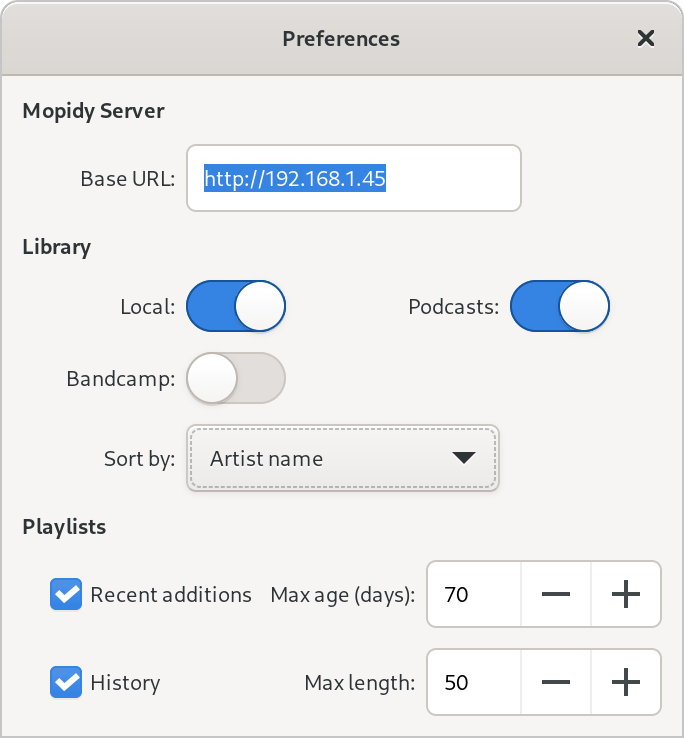
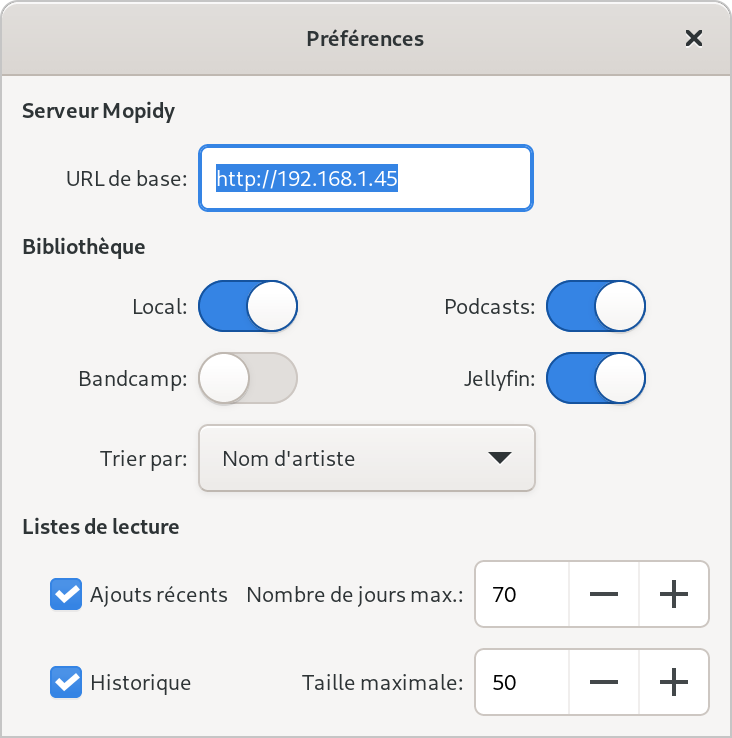
Support for Mopidy-Jellyfin
- Implement new MopidyJellyfinBackend
- Limit size of request to fetch album images URIs
- Support download of images with http URI scheme

Refs: #48

diff --git a/argos/widgets/preferences.py b/argos/widgets/preferences.py
@@ -29,6 +29,8 @@ class PreferencesWindow(Gtk.Window):
     mopidy_local_label: Gtk.Label = Gtk.Template.Child()
     mopidy_bandcamp_switch: Gtk.Switch = Gtk.Template.Child()
     mopidy_bandcamp_label: Gtk.Label = Gtk.Template.Child()
+    mopidy_jellyfin_switch: Gtk.Switch = Gtk.Template.Child()
+    mopidy_jellyfin_label: Gtk.Label = Gtk.Template.Child()
     mopidy_podcast_switch: Gtk.Switch = Gtk.Template.Child()
     mopidy_podcast_label: Gtk.Label = Gtk.Template.Child()
     album_sort_combobox: Gtk.ComboBoxText = Gtk.Template.Child()
@@ -58,6 +60,9 @@ class PreferencesWindow(Gtk.Window):
 
         mopidy_bandcamp = self._settings.get_boolean("mopidy-bandcamp")
         self.mopidy_bandcamp_switch.set_active(mopidy_bandcamp)
+
+        mopidy_jellyfin = self._settings.get_boolean("mopidy-jellyfin")
+        self.mopidy_jellyfin_switch.set_active(mopidy_jellyfin)
 
         mopidy_podcast = self._settings.get_boolean("mopidy-podcast")
         self.mopidy_podcast_switch.set_active(mopidy_podcast)
@@ -96,6 +101,8 @@ class PreferencesWindow(Gtk.Window):
             self.mopidy_local_label,
             self.mopidy_bandcamp_switch,
             self.mopidy_bandcamp_label,
+            self.mopidy_jellyfin_switch,
+            self.mopidy_jellyfin_label,
             self.mopidy_podcast_switch,
             self.mopidy_podcast_label,
             self.history_playlist_check_button,
@@ -124,6 +131,9 @@ class PreferencesWindow(Gtk.Window):
         )
         self.mopidy_bandcamp_switch.connect(
             "notify::active", self.on_mopidy_bandcamp_switch_activated
+        )
+        self.mopidy_jellyfin_switch.connect(
+            "notify::active", self.on_mopidy_jellyfin_switch_activated
         )
         self.mopidy_podcast_switch.connect(
             "notify::active", self.on_mopidy_podcast_switch_activated
@@ -154,6 +164,8 @@ class PreferencesWindow(Gtk.Window):
             self.mopidy_local_label,
             self.mopidy_bandcamp_switch,
             self.mopidy_bandcamp_label,
+            self.mopidy_jellyfin_switch,
+            self.mopidy_jellyfin_label,
             self.mopidy_podcast_switch,
             self.mopidy_podcast_label,
             self.history_playlist_check_button,
@@ -185,6 +197,14 @@ class PreferencesWindow(Gtk.Window):
     ) -> None:
         mopidy_bandcamp = switch.get_active()
         self._settings.set_boolean("mopidy-bandcamp", mopidy_bandcamp)
+
+    def on_mopidy_jellyfin_switch_activated(
+        self,
+        switch: Gtk.Switch,
+        _1: GObject.ParamSpec,
+    ) -> None:
+        mopidy_jellyfin = switch.get_active()
+        self._settings.set_boolean("mopidy-jellyfin", mopidy_jellyfin)
 
     def on_mopidy_podcast_switch_activated(
         self,

diff --git a/argos/controllers/albums.py b/argos/controllers/albums.py
@@ -10,6 +10,7 @@ if TYPE_CHECKING:
 from argos.backends import (
     MopidyBackend,
     MopidyBandcampBackend,
+    MopidyJellyfinBackend,
     MopidyLocalBackend,
     MopidyPodcastBackend,
 )
@@ -41,6 +42,7 @@ class AlbumsController(ControllerBase):
             MopidyLocalBackend(),
             MopidyPodcastBackend(),
             MopidyBandcampBackend(),
+            MopidyJellyfinBackend(),
         ]
         self._backends: Dict[MopidyBackend, bool] = {}
         for backend in backends:
@@ -176,7 +178,11 @@ class AlbumsController(ControllerBase):
             )
 
             album_uris = [a["uri"] for a in directory_albums]
-            images = await self._http.get_images(album_uris)
+            images = await call_by_slice(
+                self._http.get_images,
+                params=album_uris,
+                call_size=50,
+            )
             if not images:
                 continue
 

diff --git a/argos/backends.py b/argos/backends.py
@@ -49,6 +49,16 @@ class MopidyBandcampBackend(MopidyBackend):
         return None
 
 
+class MopidyJellyfinBackend(MopidyBackend):
+    def __init__(self):
+        super().__init__(settings_key="mopidy-jellyfin")
+
+    def get_albums_uri(self, directory_uri: Optional[str]) -> Optional[str]:
+        if directory_uri == "jellyfin:":
+            return "jellyfin:albums"
+        return None
+
+
 class MopidyPodcastBackend(MopidyBackend):
     def __init__(self):
         super().__init__(settings_key="mopidy-podcast", static_albums=False)

diff --git a/argos/download.py b/argos/download.py
@@ -51,7 +51,7 @@ class ImageDownloader(GObject.GObject):
     def get_image_filepath(self, image_uri: str) -> Optional[Path]:
         if image_uri.startswith("/local/"):
             filename = Path(image_uri).parts[-1]
-        elif image_uri.startswith("https://"):
+        elif image_uri.startswith("https://") or image_uri.startswith("http://"):
             filename = urllib.parse.quote(image_uri[8:], safe="")
         else:
             LOGGER.warning(f"Unsupported URI scheme {image_uri!r}")

diff --git a/README.rst b/README.rst
@@ -40,7 +40,7 @@ Features 🥳
 * Playback state & tracklist view
 
 * Library browser populated with albums from Mopidy-Local,
-  Mopidy-Bandcamp and Mopidy-Podcast
+  Mopidy-Bandcamp, Mopidy-Jellyfin and Mopidy-Podcast
 
 * View and edition of Mopidy-M3U playlists
 
@@ -158,7 +158,7 @@ DEB file from that image::
 
   $ VERSION=1.1.2
   $ docker build -t argos-build:$VERSION --build-arg VERSION=${VERSION} .
-  $ docker run --rm -v ${PWD}:/opt/argos argos-build:$VERSION -- bash -c "cp builddir/*.deb /opt/argos"
+  $ docker run --rm -v ${PWD}:/opt/argos argos-build:$VERSION bash -c "cp builddir/*.deb /opt/argos"
 
 To manually build the DEB package, first install the dependencies
 listed in the `Dockerfile </Dockerfile>`_, then run the following

diff --git a/NEWS.rst b/NEWS.rst
@@ -15,11 +15,17 @@ Added
 -----
 - Start documentation page `#12
   <https://github.com/orontee/argos/issues/12>`_
+- Support download of images with ``http`` URI scheme `#48
+  <https://github.com/orontee/argos/issues/48>`_
+- Support for Mopidy-Jellyfin backend `#48
+  <https://github.com/orontee/argos/issues/48>`_
 
 Changed
 -------
 - Default is now to enable backend for Mopidy-Local  `#43
   <https://github.com/orontee/argos/issues/43>`_
+- Limit size of request to fetch album images URIs `#48
+  <https://github.com/orontee/argos/issues/48>`_
 
 Removed
 -------
